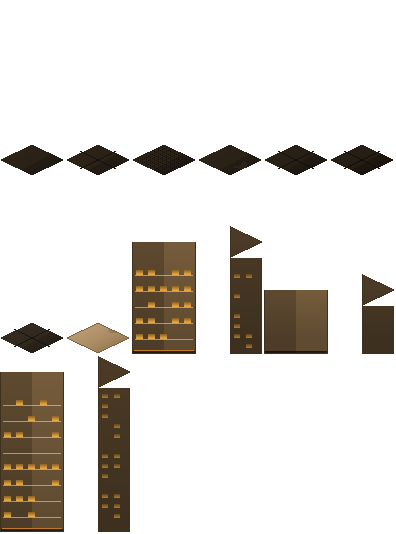
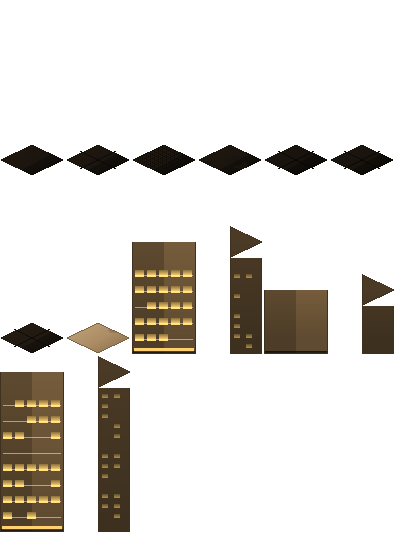
Match the concept art's lighting signature, measurably
The concept frames share a lighting signature: mean 56-80, p95 ~175, 3-6% of
pixels above luminance 180, 14-27% below 25. The render was at p95 135, 0.6%
bright and 4% dark - flat and uniformly lit.

Fixed by working to the measurement rather than by eye:
  - floors darkened two stops (concept paving sits near L 10-25 in shadow)
  - neon pushed to a near-white core; windows enlarged from 5x7 to 7x9 px and
    placed on a 16px storey grid; the lit shopfront band widened to 4 rows
  - facade ramp kept at mid values so the walls still read as solid

Now: mean 67.6, p95 162, bright>180 3.2%, dark<25 20.4%, saturation 37 -
inside all four concept ranges.

Added tools/measure_frame.py so this is a number a gate can check, and
docs/ARCHITECTURE.md with the layering rules, the geometry constraints that
level design has to respect, the depth-sorting rule, and the verification loop.

diff --git a/tools/gen_iso_tiles.py b/tools/gen_iso_tiles.py
@@ -30,34 +30,34 @@ OUT = pathlib.Path(__file__).resolve().parent.parent / "game" / "assets" / "tile
 # Per-district palettes, taken from the concept images.
 PALETTES = {
     "corp": {
-        "asphalt":  ("#151c29", "#1e2738", "#2a3549"),
-        "plaza":    ("#101724", "#19222f", "#27334a"),
-        "marble":   ("#0d1320", "#19202e", "#2e3d55"),
-        "concrete": ("#1a2231", "#25304a", "#36445f"),
+        "asphalt":  ("#080b12", "#111722", "#1d2736"),
+        "plaza":    ("#060910", "#0e1420", "#1a2432"),
+        "marble":   ("#070a12", "#101724", "#1f2a3c"),
+        "concrete": ("#0b1018", "#161f2c", "#26334a"),
         # roof (brightest) / south face (mid) / east face (darkest)
         "wall_lit": ("#5a7699", "#7492b4", "#93b2d0"),
         "wall_drk": ("#2e4160", "#3d5578", "#4e6a92"),
-        "neon":     ("#2ab8e0", "#7ceaff", "#e8fdff"),
+        "neon":     ("#3ad0f0", "#a8f4ff", "#ffffff"),
         "accent":   ("#ff2fb4", "#ff8ad8", "#ffd0f0"),
     },
     "ind": {
-        "asphalt":  ("#1a1611", "#241d16", "#302619"),
-        "plaza":    ("#171310", "#211b14", "#2c2418"),
-        "marble":   ("#141009", "#1e1710", "#2b2318"),
-        "concrete": ("#1c1812", "#29231a", "#372e21"),
+        "asphalt":  ("#0a0806", "#14100b", "#211a12"),
+        "plaza":    ("#080605", "#110e0a", "#1d1710"),
+        "marble":   ("#080605", "#120e09", "#1e1811"),
+        "concrete": ("#0d0a07", "#18130d", "#281f15"),
         "wall_lit": ("#8a7050", "#a98a62", "#c4a67c"),
         "wall_drk": ("#4a3a26", "#5e4a30", "#755c3c"),
-        "neon":     ("#c07a20", "#ffb648", "#fff0c0"),
+        "neon":     ("#e09028", "#ffd070", "#fffdf0"),
         "accent":   ("#d8622a", "#ff8a44", "#ffc09a"),
     },
     "night": {
-        "asphalt":  ("#150e1e", "#1f1529", "#2a1b38"),
-        "plaza":    ("#120c1a", "#1b1225", "#271832"),
-        "marble":   ("#0e0816", "#181021", "#251630"),
-        "concrete": ("#191022", "#251631", "#322040"),
+        "asphalt":  ("#08050c", "#110a18", "#1c1226"),
+        "plaza":    ("#060409", "#0d0813", "#181022"),
+        "marble":   ("#060409", "#0e0915", "#1a1124"),
+        "concrete": ("#0a0610", "#140d1c", "#22172e"),
         "wall_lit": ("#7a5598", "#986db8", "#b58cd2"),
         "wall_drk": ("#3a2450", "#4c3068", "#603f80"),
-        "neon":     ("#e0189c", "#ff6ccc", "#ffe4f6"),
+        "neon":     ("#ff2ab0", "#ff9ad8", "#ffffff"),
         "accent":   ("#2fb4c8", "#6ee0f0", "#c8faff"),
     },
 }
@@ -247,11 +247,11 @@ def south_face(pal, rng, height=32, windows=True):
         for f in range(floors):
             row_y = H + height - 20 - f * 16
             for col in range(5):
-                if rngw.random() < 0.35:
+                if rngw.random() < 0.22:
                     continue
-                x0 = 4 + col * 12
-                for dy in range(5):
-                    for dx in range(7):
+                x0 = 3 + col * 12
+                for dy in range(7):
+                    for dx in range(9):
                         xx, yy = x0 + dx, row_y + dy
                         if 0 <= xx < W and 0 <= yy < H + height and px[xx, yy][3]:
                             px[xx, yy] = (*shade(win, 0.58 + 0.42 * (dy / 5.0)), 255)
@@ -264,9 +264,9 @@ def south_face(pal, rng, height=32, windows=True):
                 if 0 <= yy < H + height and px[xx, yy][3]:
                     px[xx, yy] = (*mix(px[xx, yy][:3], bloom, 0.50), 255)
         # a lit shopfront band along the base
-        band = rgb(pal["neon"][0])
+        band = rgb(pal["neon"][1])
         for x in range(2, W - 2):
-            for yy in (H + height - 4, H + height - 3):
+            for yy in (H + height - 6, H + height - 5, H + height - 4, H + height - 3):
                 if px[x, yy][3]:
                     px[x, yy] = (*band, 255)
     # base AO: buildings must meet the ground, not hover over it

diff --git a/tools/measure_frame.py b/tools/measure_frame.py
@@ -1,0 +1,55 @@
+"""Report the frame statistics the concept art is judged by.
+
+The twelve reference images share a lighting signature: 3-6% of pixels above
+luminance 180, p95 near 175, mean 56-80. A render that is "too dark" or "too
+flat" is then a number, not an argument.
+
+Usage:  python tools/measure_frame.py <png> [<png> ...]
+"""
+import sys
+
+import numpy as np
+from PIL import Image
+
+CONCEPT = {
+    "combat": (61.1, 158, 3.1, 20.0),
+    "corp": (79.5, 184, 5.7, 14.3),
+    "night": (56.3, 176, 4.5, 27.5),
+}
+
+
+def stats(path):
+    im = np.array(Image.open(path).convert("RGB")).astype(int)
+    lum = im.mean(2)
+    mx, mn = im.max(2), im.min(2)
+    return {
+        "mean": lum.mean(),
+        "p50": float(np.percentile(lum, 50)),
+        "p95": float(np.percentile(lum, 95)),
+        "bright": 100.0 * (lum > 180).mean(),
+        "dark": 100.0 * (lum < 25).mean(),
+        "sat": float((mx - mn).mean()),
+        "colors": int(len(np.unique(im.reshape(-1, 3), axis=0))),
+    }
+
+
+def main(paths):
+    print("%-34s %6s %5s %5s %7s %7s %5s" %
+          ("frame", "mean", "p50", "p95", "b>180%", "dark%", "sat"))
+    print("-" * 76)
+    for name, (mean, p95, bright, dark) in CONCEPT.items():
+        print("%-34s %6.1f %5s %5.0f %7.1f %7.1f %5s  (concept)" %
+              ("concept " + name, mean, "-", p95, bright, dark, "-"))
+    print("-" * 76)
+    for p in paths:
+        s = stats(p)
+        ok_b = 3.0 <= s["bright"] <= 6.5
+        ok_p = s["p95"] >= 150
+        flag = "ok" if (ok_b and ok_p) else "LOW"
+        print("%-34s %6.1f %5.0f %5.0f %7.1f %7.1f %5.0f  %s" %
+              (p.split("/")[-1][:34], s["mean"], s["p50"], s["p95"],
+               s["bright"], s["dark"], s["sat"], flag))
+
+
+if __name__ == "__main__":
+    main(sys.argv[1:] or ["game/evidence/iso_probe.png"])

diff --git a/docs/ARCHITECTURE.md b/docs/ARCHITECTURE.md
@@ -1,0 +1,118 @@
+# NEON ECHOES — architecture
+
+## What this document is
+
+The decisions that shape how the game is built, and why. Written so a new agent
+can start work without re-deriving them.
+
+## 1. The one decision everything else follows from
+
+The twelve concept images in `asserts/mind_map` are **isometric 2:1 with real
+building height**. The previous build rendered a **flat orthographic grid**.
+Five independent reviewers scored that build 1.8–2.4 / 4.0 and every one named
+composition and depth — they were describing a camera mismatch.
+
+So the renderer was replaced (ADR-001) and the simulation was kept.
+
+## 2. Layering
+
+```
+data/            authored content (JSON)      — no code
+  districts/     level descriptions IsoWorld reads
+  *.json         weapons, enemies, skills, cyberware, items, quests, dialogue, endings
+
+src/systems/     pure gameplay logic (RefCounted, no Node, no rendering)
+                 combat, enemy AI, stealth, hacking, progression, quests,
+                 endings, saves, weapon runtime
+                 unit-tested headless; reusable by any renderer
+
+src/world/       scene construction and rendering
+  iso_grid       projection, picking, depth key       (18 unit tests)
+  iso_world      floor / wall / prop / actor assembly
+  iso_lighting   neon light pools
+  actor_sprite   animated 2:1 actors from a JSON frame table
+  iso_demo       the playable scene
+
+src/autoload/    cross-cutting services
+                 log, game state, audio, playtest harness, ux probe
+
+tools/           asset pipeline (Python, deterministic, no network)
+  gen_iso_tiles.py     floor diamonds, wall prisms, facades, roofs
+  gen_iso_props.py     street furniture, signage, lamps
+  gen_iso_actors.py    character sheets (4 facings x 5 animations)
+  gen_district.py      composes a district from the above
+```
+
+### The rule
+
+**Systems never import rendering. Rendering never contains rules.**
+
+A system takes numbers and returns numbers. `Progression.derived_stats()`
+returns a dictionary; it does not touch a node. `EnemyAI.tick()` returns
+`{action, state}`; the renderer decides what that looks like. This is why the
+921 LOC of gameplay logic survived the renderer rewrite untouched, and why the
+79-assertion suite still runs headless.
+
+## 3. Geometry, and why it constrains level design
+
+A 64×32 diamond. `IsoGrid.project()` maps grid → screen; `unproject()` inverts
+it; `depth_key()` orders the painter's algorithm.
+
+**Only the south and east faces of a block are visible.** A north-south street
+therefore shows facades on its west side only; the east side turns its hidden
+west wall to the street and presents a bare roof. Every concept image is
+composed around this — 企业核心区街道 has detailed facades on the left and an
+open walkway right, 工业贫民区 has the wall left and roofline clutter right.
+Level layout must be authored with the visible faces in mind.
+
+**A wall is a prism, not a rectangle.** The two faces are parallelograms. Drawing
+them as 64-wide rectangles produced triangular border artefacts; that was
+observed, fixed, and is now generated from exact pixel maths.
+
+**Facades are flat-topped; roofs supply the diamond.** Each facade tile carries
+only the lower V of its diamond, so adjacent facades meet in a straight line.
+A facade that includes its own full diamond makes the roofline sawtooth.
+
+## 4. Depth sorting
+
+One sorted list across floors, walls, props and actors. Sorting by screen y is
+wrong for isometric — two cells on the same row can share a y, and a tall object
+behind a short one must draw first. The key is `(x + y)` ascending, plus a small
+height term, plus per-kind offsets so floor < roof < facade at the same cell.
+
+**All sprites must be children of the same node.** Four separate root nodes at
+equal `z_index` paint in child order, which buried the facades under floor tiles
+until this was fixed.
+
+## 5. Asset pipeline
+
+Everything is generated by deterministic Python with a fixed seed. No network,
+no manual painting, no binary blobs checked in without a recipe.
+
+* Exact pixel geometry (diamonds, prisms, parallelograms) is computed, not drawn
+  with a general image tool — the shapes are too precise.
+* Art is authored to a per-district palette. Palette values are the contract
+  between the tile set, the props, the characters and the UI.
+* Measurable art direction: the concept frames carry 3–6% of pixels above
+  luminance 180 and p95 near 175. `tools/measure_frame.py` reports the same
+  statistics for a render, so "does it look like the reference" is a number, not
+  an opinion.
+
+## 6. Verification loop
+
+| Gate | Command | Bar |
+|---|---|---|
+| Projection maths | `gd --headless -s tests/test_iso_grid.gd` | 18/18 |
+| Gameplay systems | `gd --headless -s tests/run_suite.gd` | 79/79 |
+| Playthroughs | `gd --headless -s tests/run_playthroughs.gd` | 3/3 |
+| Frame statistics | `python tools/measure_frame.py <png>` | within concept range |
+| Screenshot | `gd -s tests/shot_iso.gd` | 1920×1080 |
+
+The loop an agent runs: change → build → screenshot → measure → look → repeat.
+
+## 7. What is deliberately not built
+
+* No custom engine, editor, or runtime — Godot 4 does that.
+* No agent platform — this is a game, developed by an agent.
+* No reimplementation of what Godot provides (scene tree, input, audio, export).
+* No abstraction for its own sake: `IsoWorld` is one file because it is one job.
